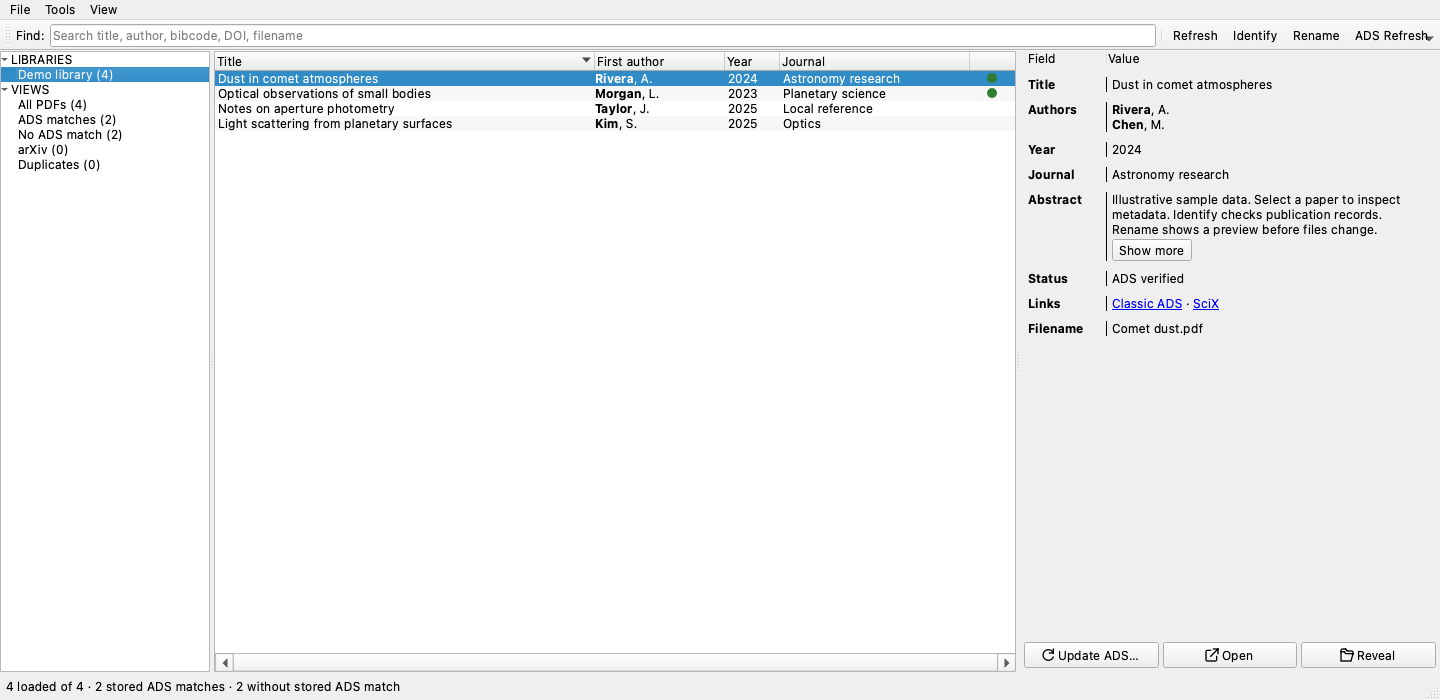
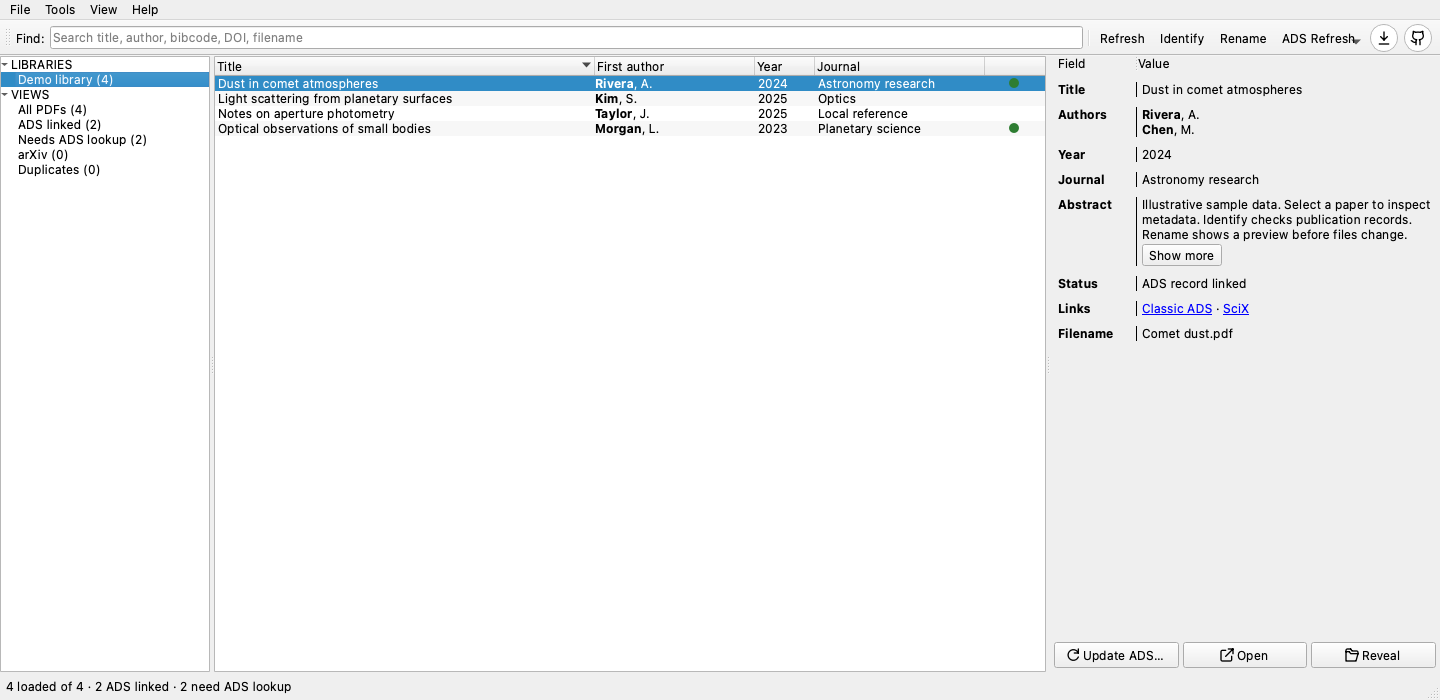
docs: show 0.4.0 screenshots and add a reproducible capture script
Replace the 0.2.1 library screenshot with one of 0.4.0 and add the welcome
page. scripts/capture_app_overview.py renders both offscreen from fictional
sample data in a temporary home, so it never touches real settings.

diff --git a/website/index.html b/website/index.html
@@ -15,7 +15,7 @@
       <div><p class="eyebrow">A local library for research papers</p><h1>Start with your<br>existing PDFs.</h1><p class="lead">Add a folder, identify papers in a batch, and preview filenames before renaming. Keep your folder structure, metadata edits, and file history.</p><a class="button" href="#download">Get ADSfolio</a><a class="secondary" href="docs/getting-started.html">Read the guide →</a></div>
       <img class="hero-icon" src="adsfolio.svg" alt="A stack of papers under a blue magnifying glass" width="360" height="360">
     </section>
-    <figure class="app-preview"><img src="docs/_static/app-overview.png" alt="ADSfolio showing a library list, publication table, and editable metadata" width="1440" height="700"><figcaption>Application screenshot with illustrative sample data. Version 0.2.1 shown.</figcaption></figure>
+    <figure class="app-preview"><img src="docs/_static/app-overview.png" alt="ADSfolio showing a library list, publication table, and editable metadata" width="1440" height="700"><figcaption>Application screenshot with illustrative sample data. Version 0.4.0 shown.</figcaption></figure>
     <section class="download" aria-label="First library"><h2>From PDF folders to a searchable library</h2><ol><li>Choose Add PDF Folder on the welcome page.</li><li>Choose Include Subfolders if your papers use nested folders.</li><li>Run Identify. Review matches and papers that need attention.</li><li>Preview Rename, then apply only the changes you want.</li></ol><p>Saved results reduce repeated lookups. Identification time depends on PDF text, cache coverage, provider limits, and your connection.</p><a href="docs/gui.html">Read the application guide →</a></section>
     <section class="features" aria-label="Features">
       <article><span>01</span><h2>Find the paper</h2><p>Use ADS, Crossref, or DataCite. Choose the lookup order, or add your own references when a service has no match.</p></article>

diff --git a/scripts/capture_app_overview.py b/scripts/capture_app_overview.py
@@ -1,0 +1,220 @@
+"""Render the README application screenshots from illustrative sample data.
+
+The script runs ADSfolio offscreen with a temporary home directory, so it never
+reads or changes the user's settings, token, or library catalog. All papers,
+authors, journals, and bibcodes below are fictional.
+
+Usage::
+
+    uv run python scripts/capture_app_overview.py [--output PATH] [--welcome PATH]
+
+The first image shows a sample library. The second shows the welcome page
+that a new installation opens with.
+"""
+
+from __future__ import annotations
+
+import argparse
+import logging
+import os
+import subprocess
+import sys
+import tempfile
+from pathlib import Path
+
+logger = logging.getLogger(__name__)
+ROOT = Path(__file__).resolve().parents[1]
+SIZE = (1440, 700)
+VISIBLE_COLUMNS = ("title", "author", "year", "pub", "status")
+VISIBLE_DETAIL_ROWS = (
+    "title",
+    "author",
+    "year",
+    "pub",
+    "abstract",
+    "status",
+    "links",
+    "filename",
+)
+
+# Fictional records. "DEMO" is not an ADS journal code, so no bibcode is real.
+PAPERS = (
+    {
+        "filename": "Comet dust.pdf",
+        "status": "resolved",
+        "metadata": {
+            "title": ["Dust in comet atmospheres"],
+            "author": ["Rivera, A.", "Chen, M."],
+            "year": "2024",
+            "pub": "Astronomy research",
+            "bibcode": "2024DEMO....1....1R",
+            "abstract": "Illustrative sample data. Select a paper to inspect "
+            "metadata. Identify checks publication records. Rename shows a "
+            "preview before files change.",
+        },
+    },
+    {
+        "filename": "Small bodies.pdf",
+        "status": "resolved",
+        "metadata": {
+            "title": ["Optical observations of small bodies"],
+            "author": ["Morgan, L.", "Patel, R."],
+            "year": "2023",
+            "pub": "Planetary science",
+            "bibcode": "2023DEMO....2....2M",
+        },
+    },
+    {
+        "filename": "Photometry notes.pdf",
+        "status": "unresolved",
+        "metadata": {
+            "title": ["Notes on aperture photometry"],
+            "author": ["Taylor, J."],
+            "year": "2025",
+            "pub": "Local reference",
+        },
+    },
+    {
+        "filename": "Light scattering.pdf",
+        "status": "unresolved",
+        "metadata": {
+            "title": ["Light scattering from planetary surfaces"],
+            "author": ["Kim, S."],
+            "year": "2025",
+            "pub": "Optics",
+        },
+    },
+)
+
+
+def _write_pdf(path: Path, title: str) -> None:
+    """Write a one-page PDF so the catalog sees a real, distinct file."""
+    import fitz
+
+    document = fitz.open()
+    page = document.new_page()
+    page.insert_text((72, 72), title)
+    document.save(path)
+    document.close()
+
+
+def _save(window: object, output: Path) -> None:
+    """Save the window at the README size, or raise on any mismatch."""
+    pixmap = window.grab()
+    if (pixmap.width(), pixmap.height()) != SIZE:
+        raise RuntimeError(f"Unexpected screenshot size {pixmap.size()}")
+    if not pixmap.save(str(output)):
+        raise RuntimeError(f"Could not save {output}")
+    logger.info("Saved %s", output)
+
+
+def capture(output: Path, welcome: Path) -> None:
+    """Save the welcome page, then the sample library, from a temporary home."""
+    from PySide6.QtWidgets import QApplication
+
+    application = QApplication.instance() or QApplication([])
+    from adsfolio.config import Config
+    from adsfolio.gui.config import (
+        DEFAULT_HIDDEN_DETAIL_ROWS,
+        GuiConfig,
+        RootEntry,
+        save_config,
+    )
+    from adsfolio.gui.detail_pane import DEFAULT_ROW_ORDER
+    from adsfolio.gui.library import BASE_COLUMNS
+    from adsfolio.gui.main_window import MainWindow
+
+    home = Path(os.environ["HOME"])
+    if not Config.get_config_dir().is_relative_to(home):
+        raise RuntimeError("The configuration directory is not isolated")
+    save_config(GuiConfig(check_updates_automatically=False))
+    first_run = MainWindow()
+    first_run.resize(*SIZE)
+    first_run.show()
+    application.processEvents()
+    _save(first_run, welcome)
+    first_run.close()
+
+    library = home / "Demo library"
+    library.mkdir()
+    for paper in PAPERS:
+        _write_pdf(library / paper["filename"], paper["metadata"]["title"][0])
+    save_config(
+        GuiConfig(
+            roots=[RootEntry(str(library), label="Demo library")],
+            check_updates_automatically=False,
+            hidden_table_columns=[
+                column.key
+                for column in BASE_COLUMNS
+                if column.key not in VISIBLE_COLUMNS
+            ],
+            detail_hidden_rows=[
+                *DEFAULT_HIDDEN_DETAIL_ROWS,
+                *(row for row in DEFAULT_ROW_ORDER if row not in VISIBLE_DETAIL_ROWS),
+            ],
+            citation_styles=[],
+            column_widths={"pub": 170},
+            splitter_sizes=[210, 840, 390],
+        )
+    )
+
+    window = MainWindow()
+    registry = window.registries[str(library.resolve())]
+    for paper in PAPERS:
+        registry.replace_file_metadata(
+            library.resolve(), paper["filename"], paper["metadata"]
+        )
+        registry.update_file_status(
+            library.resolve(), paper["filename"], paper["status"]
+        )
+    window.resize(*SIZE)
+    window.show()
+    window.refresh(library.resolve())
+    application.processEvents()
+    window.table.setCurrentIndex(window.model.index(0, 0))
+    application.processEvents()
+    _save(window, output)
+    window.close()
+
+
+def main() -> None:
+    """Re-run in an isolated home directory, then capture the window."""
+    logging.basicConfig(level=logging.INFO, format="%(message)s")
+    parser = argparse.ArgumentParser(description=__doc__.splitlines()[0])
+    parser.add_argument(
+        "--output", type=Path, default=ROOT / "docs/_static/app-overview.png"
+    )
+    parser.add_argument(
+        "--welcome", type=Path, default=ROOT / "docs/_static/welcome.png"
+    )
+    args = parser.parse_args()
+    if os.environ.get("ADSFOLIO_CAPTURE_HOME") is None:
+        with tempfile.TemporaryDirectory(prefix="adsfolio-capture-") as home:
+            environment = {
+                key: value
+                for key, value in os.environ.items()
+                if key not in {"ADS_API_TOKEN", "ADSFOLIO_SOURCE_LAUNCH"}
+            }
+            environment |= {
+                "HOME": home,
+                "ADSFOLIO_CAPTURE_HOME": home,
+                "QT_QPA_PLATFORM": "offscreen",
+            }
+            command = [
+                sys.executable,
+                __file__,
+                "--output",
+                str(args.output.resolve()),
+                "--welcome",
+                str(args.welcome.resolve()),
+            ]
+            raise SystemExit(
+                subprocess.run(
+                    command, env=environment, cwd=home, check=False
+                ).returncode
+            )
+    capture(args.output, args.welcome)
+
+
+if __name__ == "__main__":
+    main()

diff --git a/README.md b/README.md
@@ -18,7 +18,7 @@ speed claim applies to every collection. Start with one folder to check results.
 
 ![ADSfolio library window](docs/_static/app-overview.png)
 
-*Application screenshot with illustrative sample data. Version 0.2.1 shown.*
+*Application screenshot with illustrative sample data. Version 0.4.0 shown.*
 
 [Website](https://ysbach.github.io/adsfolio/) · [First-library tutorial](docs/getting-started.md) · [Application guide](docs/gui.md)
 
@@ -53,6 +53,10 @@ option. Approve it only if you trust the release. Installation alone does not
 establish that the app can open. Windows can also show publisher warnings.
 
 ### Start using your library
+
+![ADSfolio welcome page with three setup steps](docs/_static/welcome.png)
+
+*Welcome page of a new installation. Version 0.4.0 shown.*
 
 1. Open ADSfolio. Choose **Add PDF Folder…** on the welcome page and select your
    PDF folder. If it has subfolders, choose **Include Subfolders** or

diff --git a/CHANGELOG.md b/CHANGELOG.md
@@ -1,5 +1,16 @@
 # Changelog
 
+## Unreleased
+
+### Documentation
+
+- **README screenshots.** Before: the README showed a version 0.2.1 screenshot
+  without the welcome page or the round toolbar buttons. Now: the README shows
+  the version 0.4.0 library window and the welcome page.
+  `uv run python scripts/capture_app_overview.py` makes both images again from
+  fictional sample data. The script uses a temporary home folder, so it does not
+  read or change your settings, token, or library.
+
 ## 0.4.0 (2026-10-21)
 
 ### New
